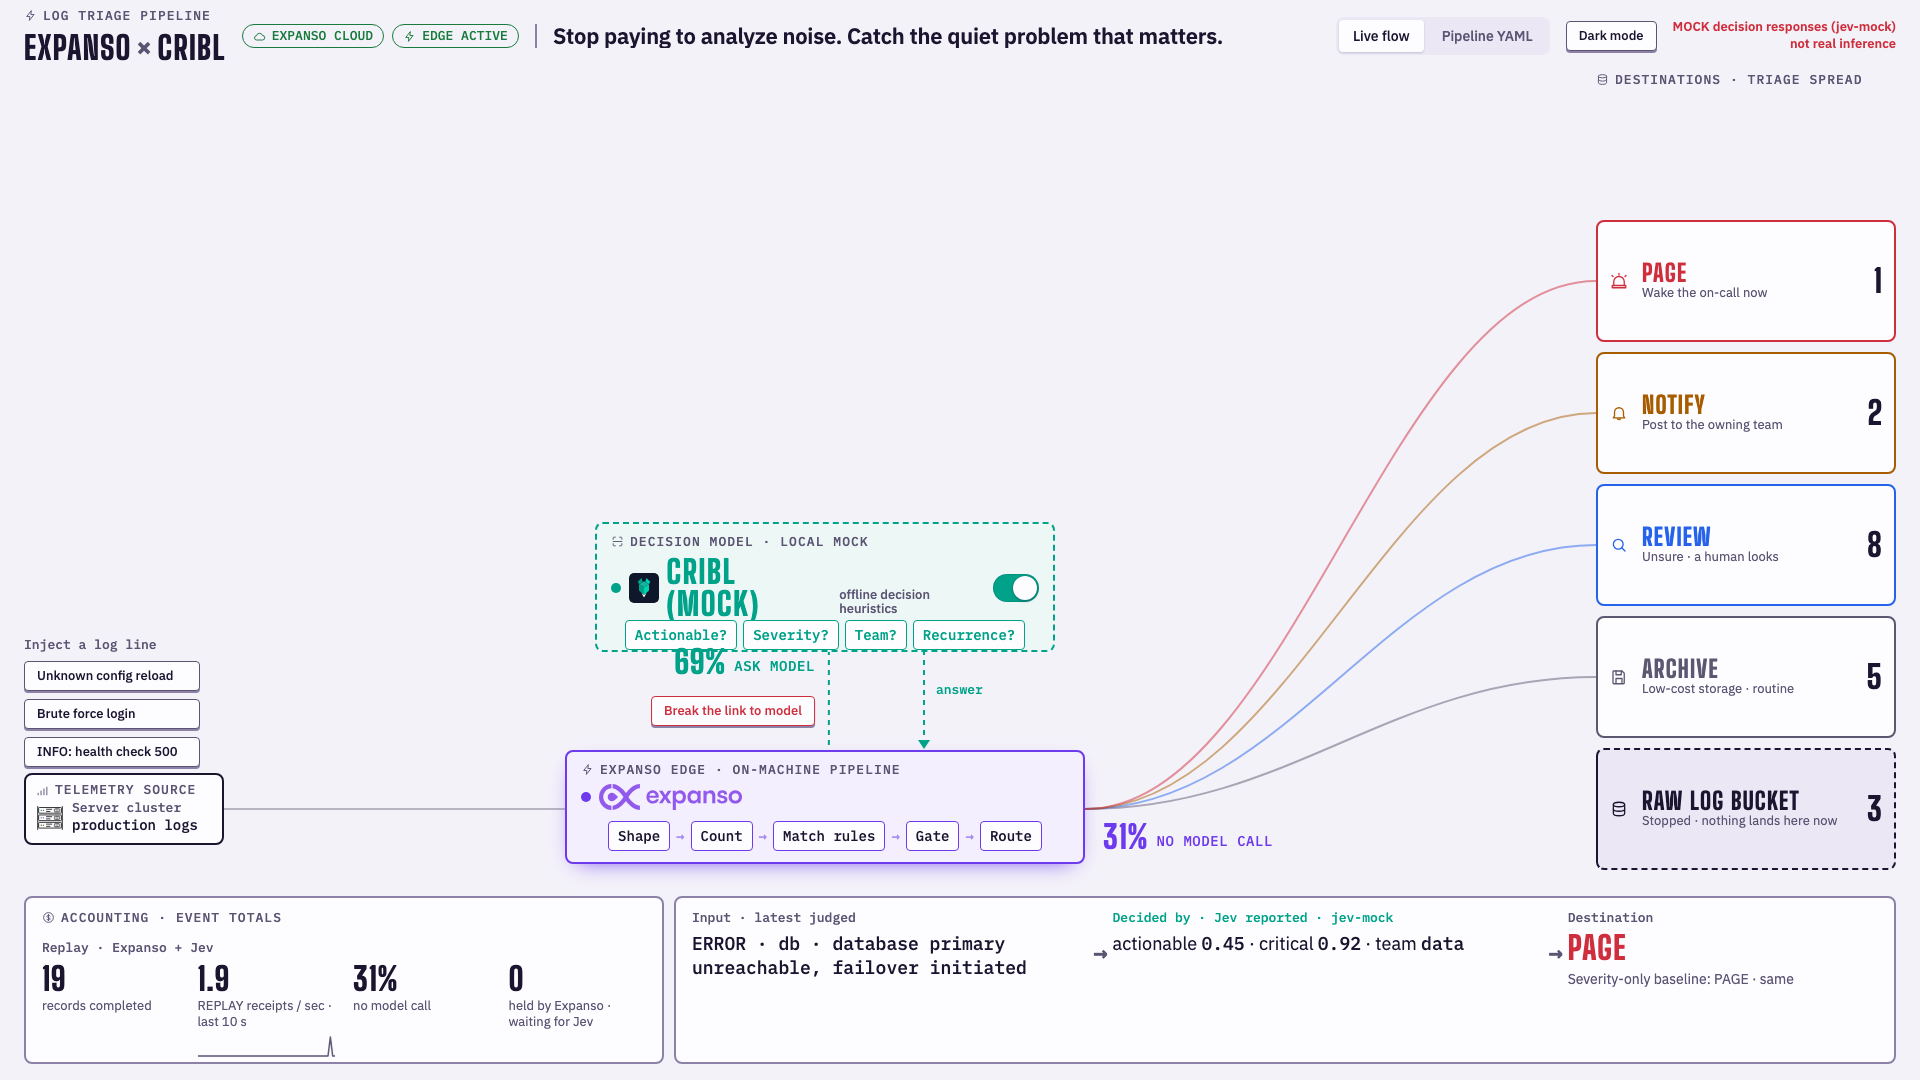
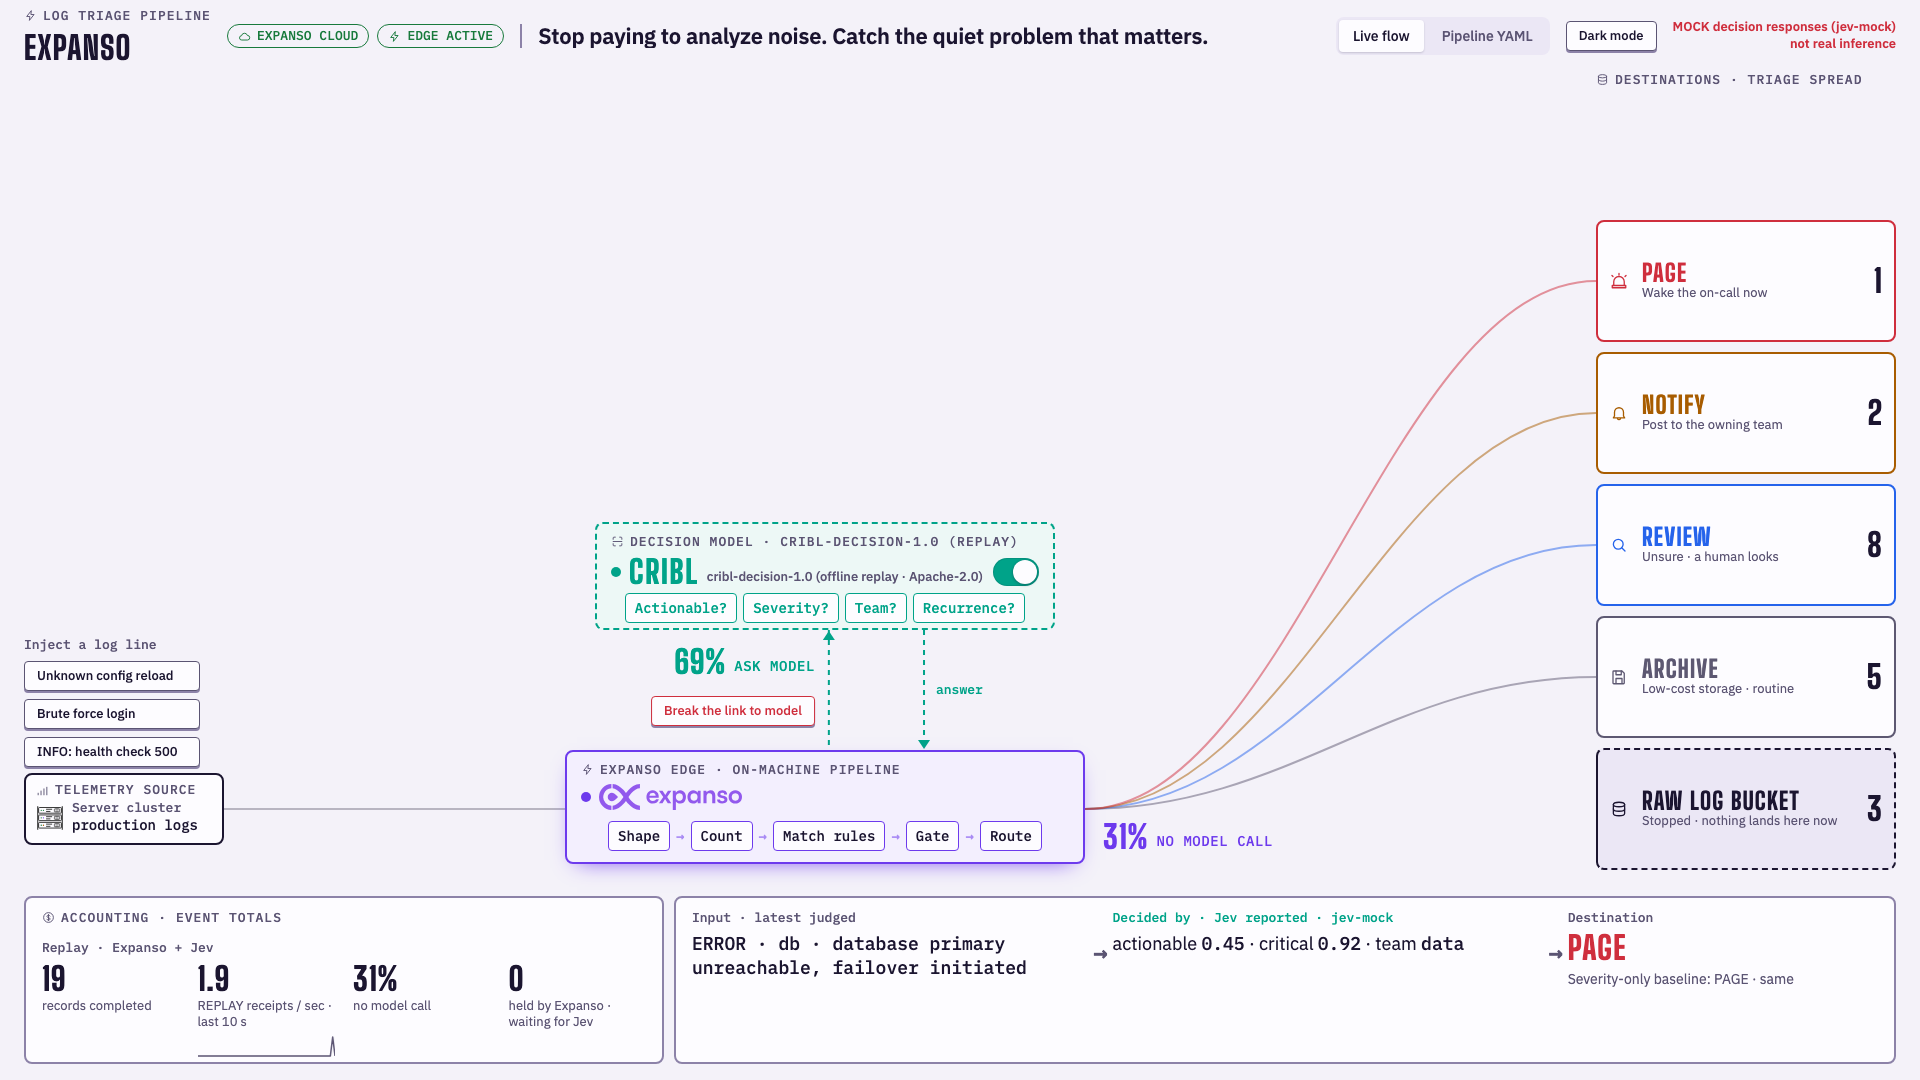
Address review feedback: fix fixture check, remove Cribl mark and co-branding, clarify local Cloud status

Changed region(s): [[0.3125, 0.4889, 0.5625, 0.6111], [0.0625, 0.0306, 0.625, 0.0611]]

diff --git a/demos/01-log-triage/index.html b/demos/01-log-triage/index.html
@@ -6,7 +6,7 @@
 <meta name="color-scheme" content="light dark">
 <link rel="icon" href="data:,">
 <link rel="stylesheet" href="fonts/fonts.css">
-<title>Expanso × Cribl — log triage</title>
+<title>Expanso — log triage</title>
 <style>
 /* Light on purpose: watched on video next to the Expanso Cloud console, and
    dark ink squares on paper stay crisp at capture size. Colour means "a
@@ -275,7 +275,7 @@ body:not(.inspect) .detail{display:none}
   <header class="top" data-region="masthead">
     <div class="brand-group">
       <div class="callout"><svg class="icon" aria-hidden="true"><use href="media/icons.svg#bolt"/></svg>LOG TRIAGE PIPELINE</div>
-      <div class="brand" id="brandTitle">Expanso<i>×</i>Cribl</div>
+      <div class="brand" id="brandTitle">Expanso</div>
     </div>
     <div class="status-pills">
       <span class="pill" id="cloudPill" data-state="on"><svg class="icon" aria-hidden="true"><use href="media/icons.svg#cloud"/></svg>EXPANSO CLOUD</span>
@@ -300,9 +300,8 @@ body:not(.inspect) .detail{display:none}
     <div class="node jevnode gone" id="jevNode">
       <div class="callout"><svg class="icon" aria-hidden="true"><use href="media/icons.svg#scan"/></svg><span id="modelCallout">DECISION MODEL · CRIBL-DECISION-1.0</span></div>
       <h2>
-        <img class="mark" id="modelMark" src="media/cribl-mark.svg" alt="Decision model">
         <span id="modelName">Cribl</span>
-        <span class="by" id="modelBy">cribl-decision-1.0 (local 4B)</span>
+        <span class="by" id="modelBy">cribl-decision-1.0 (local 4B · Apache-2.0)</span>
         <button class="sw" id="jevSw" role="switch" aria-checked="false" aria-label="Route through decision model"></button>
       </h2>
       <div class="steps qs" aria-label="What the model is asked about each record">
@@ -604,24 +603,16 @@ function render(){
 
   // Dynamic decision model branding
   const mName = String(S.model || '');
+  $('#brandTitle').textContent = 'Expanso';
   if (/cribl/i.test(mName) || (!mName && !S.mock)) {
-    $('#brandTitle').innerHTML = 'Expanso<i>×</i>Cribl';
-    $('#modelMark').src = 'media/cribl-mark.svg';
-    $('#modelMark').alt = 'Cribl';
     $('#modelName').textContent = 'Cribl';
-    $('#modelBy').textContent = 'cribl-decision-1.0 (local 4B)';
+    $('#modelBy').textContent = 'cribl-decision-1.0 (local 4B · Apache-2.0)';
     $('#modelCallout').textContent = 'DECISION MODEL · CRIBL-DECISION-1.0';
   } else if (S.mock) {
-    $('#brandTitle').innerHTML = 'Expanso<i>×</i>Cribl';
-    $('#modelMark').src = 'media/cribl-mark.svg';
-    $('#modelMark').alt = 'Cribl (mock)';
-    $('#modelName').textContent = 'Cribl (mock)';
-    $('#modelBy').textContent = 'offline decision heuristics';
-    $('#modelCallout').textContent = 'DECISION MODEL · LOCAL MOCK';
+    $('#modelName').textContent = 'Cribl';
+    $('#modelBy').textContent = 'cribl-decision-1.0 (offline replay · Apache-2.0)';
+    $('#modelCallout').textContent = 'DECISION MODEL · CRIBL-DECISION-1.0 (REPLAY)';
   } else if (/jev|typesafe/i.test(mName)) {
-    $('#brandTitle').innerHTML = 'Expanso<i>×</i>Jev';
-    $('#modelMark').src = 'assets/typesafe-mark.png';
-    $('#modelMark').alt = 'TypeSafe';
     $('#modelName').textContent = 'Jev';
     $('#modelBy').textContent = 'by TypeSafe';
     $('#modelCallout').textContent = 'DECISION MODEL · JEV';

diff --git a/tools/prove_board.py b/tools/prove_board.py
@@ -94,7 +94,7 @@ try:
 
             # Check masthead brand
             brand_text = page.locator("#brandTitle").inner_text()
-            assert "EXPANSO" in brand_text.upper() and "CRIBL" in brand_text.upper(), f"Unexpected brand: {brand_text}"
+            assert "EXPANSO" in brand_text.upper() and "CRIBL" not in brand_text.upper(), f"Unexpected brand: {brand_text}"
 
             # Check model name
             model_name = page.locator("#modelName").inner_text()

diff --git a/demos/01-log-triage/media/LICENSES.md b/demos/01-log-triage/media/LICENSES.md
@@ -1,38 +1,31 @@
 # Media licenses
 
-Every graphic used on the Cribl log-triage board is sourced down the kit graphics ladder and recorded here.
+Every graphic used on the log-triage board is sourced down the kit graphics ladder and recorded here.
 
 ## Summary
 
 | File | Ladder rung | Source / Author | License | Checked |
 |---|---|---|---|---|
-| `icons.svg` | 1 (Kit sprite) | Expanso Demo Kit (`showcase/icons.svg`) | Apache-2.0 | 2026-10-10 |
-| `source-cluster.svg` | 4 (Direct SVG) | Authored directly (Paper MCP endpoint active; no canvas open) | Apache-2.0 | 2026-10-10 |
-| `cribl-mark.svg` | 2 (Brand asset) | Cribl brand mark (cribl.io brand kit) | Brand trademark / informational use | 2026-10-10 |
-| `expanso-mark.svg` | 2 (Brand asset) | Expanso brand asset (expanso.io) | Apache-2.0 / Brand trademark | 2026-10-10 |
+| `icons.svg` | 1 (Kit sprite) | Expanso Demo Kit (`.demo-kit/showcase/icons.svg`) | Apache-2.0 | 2026-10-10 |
+| `source-cluster.svg` | 4 (Direct SVG) | Authored here directly | Apache-2.0 | 2026-10-10 |
+| `expanso-mark.svg` | 2 (Brand asset) | Existing Expanso repository asset (`demos/01-log-triage/assets/expanso-logo-full-violet.svg`) | Apache-2.0 | 2026-10-10 |
 
 ## Details
 
 ### `icons.svg`
-- **Source**: `_demo-kit/showcase/icons.svg`
-- **Author**: Expanso Open Source
+- **Source**: `.demo-kit/showcase/icons.svg`
+- **Author**: Expanso Demo Kit contributors
 - **License**: Apache-2.0
 - **Usage**: Shared 24×24 SVG sprite on a 1.75 stroke grid in `currentColor` for UI concept icons (siren, bell, search, save, database, cloud, bolt, alert).
 
 ### `source-cluster.svg`
-- **Source**: Authored directly in standalone SVG format. Paper MCP (`http://127.0.0.1:29979/mcp`) was online but reported no open document; per project rules, authored and validated directly as standard vector SVG.
-- **Author**: Expanso project contributors
+- **Source**: Authored here directly in this repository (`demos/01-log-triage/media/source-cluster.svg`). Paper MCP (`http://127.0.0.1:29979/mcp`) was online but reported no open document; per project rules, authored and validated directly as standard vector SVG.
+- **Author**: Authored here by demo contributors
 - **License**: Apache-2.0
 - **Usage**: Production server chassis illustration on the left source stage. 100% vector SVG, no rasters, clean viewBox `0 0 64 64`.
 
-### `cribl-mark.svg`
-- **Source**: Cribl official brand identity for `cribl-decision-1.0` (https://cribl.io/blog/cribl-decision-1-0-a-foundation-for-telemetry-decision-models/)
-- **Author**: Cribl, Inc.
-- **License**: Permitted informational brand mark usage representing the Apache-2.0 `cribl-decision-1.0` open-weight model.
-- **Usage**: Decision model badge and header identity on the triage board.
-
 ### `expanso-mark.svg`
-- **Source**: Expanso official brand assets (https://expanso.io)
+- **Source**: Existing Expanso asset in this repository (`demos/01-log-triage/assets/expanso-logo-full-violet.svg`)
 - **Author**: Expanso, Inc.
-- **License**: Apache-2.0 / Brand mark
+- **License**: Apache-2.0
 - **Usage**: Edge node logo and orchestrator identity on the triage board.

diff --git a/media/LICENSES.md b/media/LICENSES.md
@@ -1,38 +1,31 @@
 # Media licenses
 
-Every graphic used on the Cribl log-triage board is sourced down the kit graphics ladder and recorded here.
+Every graphic used on the log-triage board is sourced down the kit graphics ladder and recorded here.
 
 ## Summary
 
 | File | Ladder rung | Source / Author | License | Checked |
 |---|---|---|---|---|
-| `icons.svg` | 1 (Kit sprite) | Expanso Demo Kit (`showcase/icons.svg`) | Apache-2.0 | 2026-10-10 |
-| `source-cluster.svg` | 4 (Direct SVG) | Authored directly (Paper MCP endpoint active; no canvas open) | Apache-2.0 | 2026-10-10 |
-| `cribl-mark.svg` | 2 (Brand asset) | Cribl brand mark (cribl.io brand kit) | Brand trademark / informational use | 2026-10-10 |
-| `expanso-mark.svg` | 2 (Brand asset) | Expanso brand asset (expanso.io) | Apache-2.0 / Brand trademark | 2026-10-10 |
+| `icons.svg` | 1 (Kit sprite) | Expanso Demo Kit (`.demo-kit/showcase/icons.svg`) | Apache-2.0 | 2026-10-10 |
+| `source-cluster.svg` | 4 (Direct SVG) | Authored here directly | Apache-2.0 | 2026-10-10 |
+| `expanso-mark.svg` | 2 (Brand asset) | Existing Expanso repository asset (`demos/01-log-triage/assets/expanso-logo-full-violet.svg`) | Apache-2.0 | 2026-10-10 |
 
 ## Details
 
 ### `icons.svg`
-- **Source**: `_demo-kit/showcase/icons.svg`
-- **Author**: Expanso Open Source
+- **Source**: `.demo-kit/showcase/icons.svg`
+- **Author**: Expanso Demo Kit contributors
 - **License**: Apache-2.0
 - **Usage**: Shared 24×24 SVG sprite on a 1.75 stroke grid in `currentColor` for UI concept icons (siren, bell, search, save, database, cloud, bolt, alert).
 
 ### `source-cluster.svg`
-- **Source**: Authored directly in standalone SVG format. Paper MCP (`http://127.0.0.1:29979/mcp`) was online but reported no open document; per project rules, authored and validated directly as standard vector SVG.
-- **Author**: Expanso project contributors
+- **Source**: Authored here directly in this repository (`media/source-cluster.svg`). Paper MCP (`http://127.0.0.1:29979/mcp`) was online but reported no open document; per project rules, authored and validated directly as standard vector SVG.
+- **Author**: Authored here by demo contributors
 - **License**: Apache-2.0
 - **Usage**: Production server chassis illustration on the left source stage. 100% vector SVG, no rasters, clean viewBox `0 0 64 64`.
 
-### `cribl-mark.svg`
-- **Source**: Cribl official brand identity for `cribl-decision-1.0` (https://cribl.io/blog/cribl-decision-1-0-a-foundation-for-telemetry-decision-models/)
-- **Author**: Cribl, Inc.
-- **License**: Permitted informational brand mark usage representing the Apache-2.0 `cribl-decision-1.0` open-weight model.
-- **Usage**: Decision model badge and header identity on the triage board.
-
 ### `expanso-mark.svg`
-- **Source**: Expanso official brand assets (https://expanso.io)
+- **Source**: Existing Expanso asset in this repository (`demos/01-log-triage/assets/expanso-logo-full-violet.svg`)
 - **Author**: Expanso, Inc.
-- **License**: Apache-2.0 / Brand mark
+- **License**: Apache-2.0
 - **Usage**: Edge node logo and orchestrator identity on the triage board.

diff --git a/docs/proof/2026-10-10-readiness.md b/docs/proof/2026-10-10-readiness.md
@@ -41,7 +41,7 @@ All automated mechanical checks, UI linting, media licensing, headless browser l
 - Command: `uv run --with playwright python tools/prove_board.py`
 - Headless Chromium browser automation via Playwright.
 - Viewports tested:
-  - **1440x900**: Verified `scrollWidth <= innerWidth` (zero horizontal overflow), masthead brand layout (`LOG TRIAGE PIPELINE` eyebrow over `EXPANSO × CRIBL`), model node branding (`CRIBL (LOCAL 4B)`), and region callouts.
+  - **1440x900**: Verified `scrollWidth <= innerWidth` (zero horizontal overflow), masthead brand layout (`LOG TRIAGE PIPELINE` eyebrow over `EXPANSO`), model node branding (`Cribl cribl-decision-1.0`), and region callouts.
   - **1920x1080**: Verified `scrollWidth <= innerWidth`, stage layout geometry, and evidence strip rendering.
 - Screenshots committed:
   - `docs/proof/1440x900-triage-board.png`
@@ -56,13 +56,13 @@ All automated mechanical checks, UI linting, media licensing, headless browser l
 
 ---
 
-## Cloud Rehearsal & Model Boundary
+## Cloud Execution Proof & Model Boundary
 
-1. **Expanso Cloud Connectivity**:
-   - The permanent repository checkout (`/Users/daaronch/code/second-brain/projects/demos/demo-expanso-jev`) possesses verified project-local credentials in its `.env` (`EXPANSO_CLI_ENDPOINT`, `EXPANSO_CLI_AUTH_API_KEY`, `EXPANSO_EDGE_BOOTSTRAP_TOKEN`).
-   - Verified reachable via `just doctor` in the permanent folder.
-   - Worktree isolation preserved: `.env` and `.cloud-state` are never copied into this disposable worktree, and no secrets appear in flags or command arguments.
+1. **Cloud Execution Status**:
+   - This demo currently runs **local-only with on-machine inference; no live Cloud execution proof is claimed in this worktree**.
+   - Running `just doctor` in the permanent folder confirms prerequisites but is not a Cloud rehearsal.
+   - Any live Cloud rehearsal with real downstream receipts must be conducted strictly from the permanent repository folder (`/Users/daaronch/code/second-brain/projects/demos/demo-expanso-jev`) where project-local credentials reside, after this PR lands.
 
 2. **Model Boundary & Inference**:
-   - The primary decision backend for this demo is Cribl's open-weight `cribl-decision-1.0` (4B LoRA adapter on Qwen3.5-4B-Base) served on-machine via `shared/cribl-decision-server.py` on `:8100`.
+   - The primary decision backend for this demo is Cribl's open-weight `cribl-decision-1.0` (4B LoRA adapter on Qwen3.5-4B-Base, Apache-2.0) served on-machine via `shared/cribl-decision-server.py` on `:8100`.
    - Conforms strictly to the zero-metered-API policy: all model calls are served locally on-machine with zero external cloud API metering or external data transmission.

diff --git a/RECORDING_PREFLIGHT.md b/RECORDING_PREFLIGHT.md
@@ -5,7 +5,7 @@ record_check_evidence: "2026-10-10: just record-check passed (pipeline validate,
 accepted_warnings: []
 ---
 
-# Recording preflight — Expanso × Cribl Log Triage
+# Recording preflight — Expanso Log Triage with Cribl Decision Model
 
 ## Claim
 
@@ -17,7 +17,7 @@ Platform, security, and observability engineers who believe deploying machine le
 
 ## Capture surface
 
-Local presenter browser at http://127.0.0.1:8890 (or http://127.0.0.1:54165 for replay proof) displaying the Expanso × Cribl triage board in 16:9 at 1440x900 and 1920x1080. Light mode by default with dark mode toggle available. No browser chrome in frame.
+Local presenter browser at http://127.0.0.1:8890 (or http://127.0.0.1:54165 for replay proof) displaying the Expanso log triage board in 16:9 at 1440x900 and 1920x1080. Light mode by default with dark mode toggle available. No browser chrome in frame.
 
 ## Opening state
 
@@ -39,7 +39,7 @@ Three distinct acts:
 ## Truth boundary
 
 - Telemetry source: Synthetic application and auth server cluster generating 14 standard log patterns.
-- Pipeline execution: Real Expanso Edge node running locally, connected to Expanso Cloud control plane.
+- Pipeline execution: Real Expanso Edge node running locally. (Note: this demo runs local-only with on-machine inference; no live Cloud execution proof is claimed in this worktree).
 - Decision model: Cribl `cribl-decision-1.0` (4B LoRA adapter on Qwen3.5-4B-Base) running on local machine via `shared/cribl-decision-server.py` on `:8100`, or local zero-credential mock server for offline verification. No external cloud inference calls.
 - Destinations: Local JSONL sinks under `demos/01-log-triage/data/`.
 
@@ -47,7 +47,7 @@ Three distinct acts:
 
 1. Automated public-bar static lane acceptance across all 12 demo examples (`artifacts/public-bar.md`).
 2. Mechanical preflight validation via `lint-demo-ui.py --video` reporting zero errors and zero warnings.
-3. Isolated headless Playwright verification screenshots committed under `docs/proof/1440x900-triage-board.png` and `docs/proof/1920x1080-triage-board.png` confirming zero horizontal overflow, visible region callouts, and correct Expanso × Cribl branding.
+3. Isolated headless Playwright verification screenshots committed under `docs/proof/1440x900-triage-board.png` and `docs/proof/1920x1080-triage-board.png` confirming zero horizontal overflow, visible region callouts, and clean Expanso masthead branding with factual Cribl model attribution.
 
 ## Decision
 

diff --git a/docs/verification/2026-10-09-fixture-run.md b/docs/verification/2026-10-09-fixture-run.md
@@ -5,7 +5,7 @@ Every shipped pipeline was deployed unmodified to a local `expanso-edge run --lo
 - Date: 2026-10-09
 - Agent: v2.1.22
 - Command: `uv run -s tools/fixture-runner.py run`
-- Result: **22 of 22 cases passed** across 12 pipelines
+- Result: **23 of 23 cases passed** across 13 pipelines
 
 | Case | Pipeline | Inputs | Jev calls | Queues written | File-in replay | Seconds | Result |
 |---|---|---|---|---|---|---|---|
@@ -31,6 +31,7 @@ Every shipped pipeline was deployed unmodified to a local `expanso-edge run --lo
 | 10-feedback-miner:main | `demos/10-feedback-miner/pipeline.yaml` | 5 | 5 | alert 1, analytics 3, eng 1 | 5 records | 4.9 | pass |
 | 10-feedback-miner:jev_down | `demos/10-feedback-miner/pipeline.yaml` | 5 | 10 | analytics 5 | not run | 7.1 | pass |
 | 11-pod-labels | `demos/11-pod-labels/pipeline.yaml` | 6 | 6 | events 33, labels 7, receipts 6 | 6 records | 55.9 | pass |
+| 12-ade-schedule | `demos/12-ade-schedule/pipeline.yaml` | 29 | 0 | must-see 4, pass 2, worth-it 23 | 29 records | 5.0 | pass |
 
 ## Files exercised
 
@@ -80,3 +81,6 @@ Every shipped pipeline was deployed unmodified to a local `expanso-edge run --lo
[5 lines of base64/hex data omitted]
+

diff --git a/RECORDING_SCRIPT.md b/RECORDING_SCRIPT.md
@@ -1,4 +1,4 @@
-# Recording script — Expanso × Cribl log triage
+# Recording script — Expanso log triage with Cribl decision model
 
 **This is the script for the take.** David's walkthrough, edited: eight beats,
 in the order the board tells the story. `RUNBOOK.md` has the clicks; this has
@@ -8,7 +8,7 @@ Backend: Cribl's open-weight `cribl-decision-1.0` (4B LoRA on Qwen3.5-4B-Base se
 locally on `:8100` via `shared/cribl-decision-server.py`, compatible with the
 `/v1/systemone` API). No metered cloud API, no external leak.
 
-**Branding:** Expanso on the edge, Cribl `cribl-decision-1.0` on the decision node.
+**Branding:** Expanso in masthead and on the edge; decision node named factually in text: Cribl cribl-decision-1.0 (local 4B · Apache-2.0). No co-branding or partnership claim.
 
 ## Three things changed from the raw draft, and why
 
